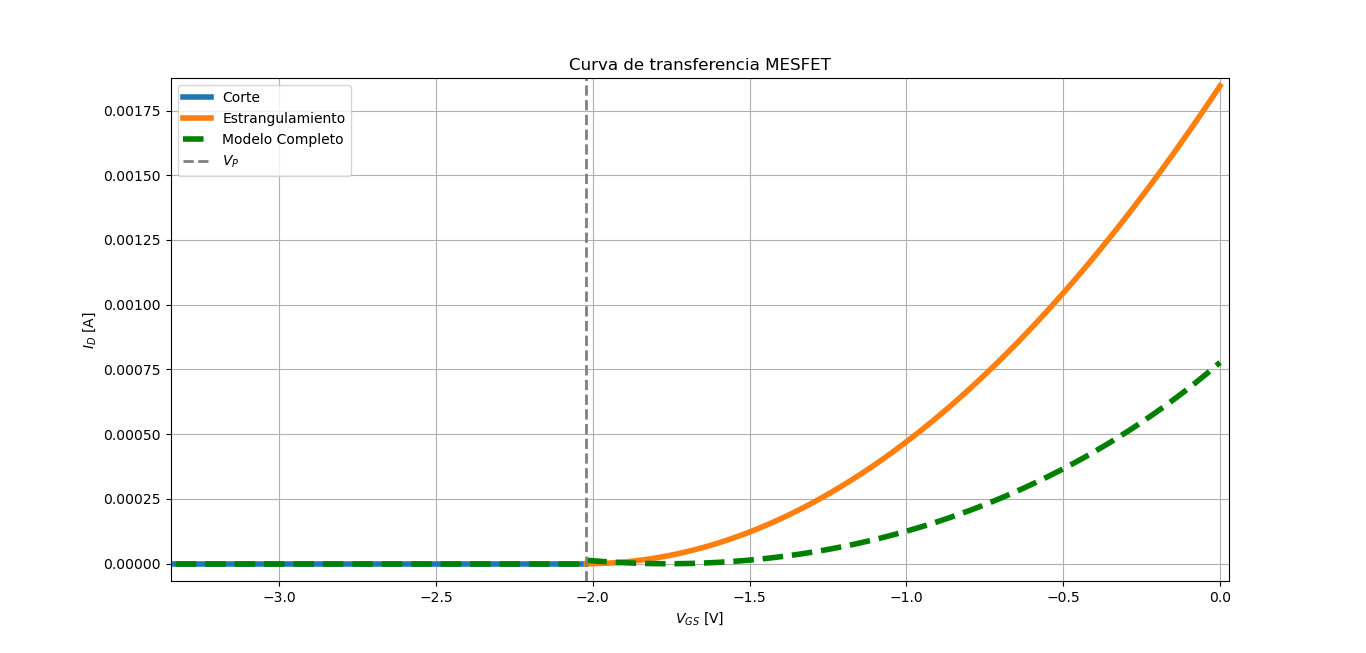
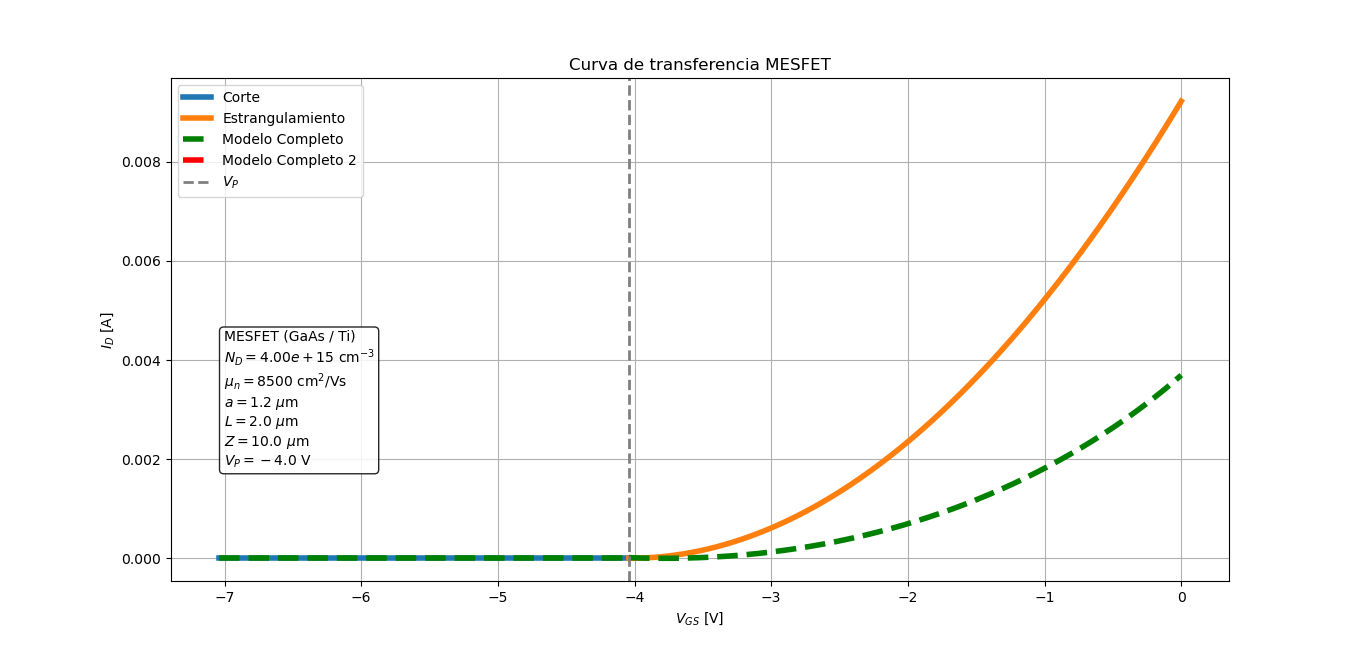
11 de FEBRERO

diff --git a/Scripts/Simulaciónes.py b/Scripts/Simulaciónes.py
@@ -13,7 +13,7 @@ eps_s = eps_r_GaAs * eps0     # F/cm
 # Parámetros del MESFET
 # -----------------------------
 mu_n = 8500               # 8500 cm^2/Vs
-Nd = 2e15                     # cm^-3
+Nd = 4e15                     # cm^-3
 
 
 #Geometricos
@@ -34,7 +34,7 @@ V_GS = 0
 V_DS_SAT  =  (-V_P + V_GS - V_bi )
 
 
-IDSS = (Z/L) * (a - W_d0) * q * mu_n * Nd * V_DS_SAT
+IDSS = (Z/L) * (a - W_d0 ) * q * mu_n * Nd * V_DS_SAT
 
 
 
@@ -73,7 +73,7 @@ go = (q*mu_n*Nd*Z*a)/(L)
 
 print("go = "+ str(go) + "1/ohm")
 
-VGS = np.linspace(V_P, 0, 500)
+VGS = np.linspace(V_P, 0, 1000)
 
 VDS_sat = (-V_P + VGS - V_bi )
 
@@ -84,18 +84,52 @@ termino = ((2)/(3*np.sqrt(np.abs(V_P))))*( (arg1)**(3/2) - (arg2)**(3/2) )
 
 ID_completo = go * ( VDS_sat -termino ) 
 
+
+#Modelo 2
+
+
+ID_norm = (Z * mu_n * (q**2) * (Nd**2) * (a**3)) / (6 * eps_s * L)
+termino_2 = ((VDS_sat + VGS + V_bi)**(3/2) - (VGS - V_bi)**(3/2))
+
+ID_model_2 = ID_norm*(3*VDS_sat/V_P - (2/(V_P**(3/2)))*termino_2 )
+
 plt.figure()
 plt.plot(VGS_corte, ID_corte, linewidth=4, label="Corte")
 plt.plot(VGS_estr, ID_estr, linewidth=4, label="Estrangulamiento")
 plt.plot(VGS, ID_completo, linewidth=4, label="Modelo Completo",color = "green" , linestyle = "--")
+plt.plot(VGS, ID_model_2, linewidth=4, label="Modelo Completo 2",color = "red" , linestyle = "--")
 plt.plot(VGS_corte, ID_corte, linewidth=4,color = "green" , linestyle = "--")
 plt.axvline(V_P, color='gray', linestyle='--', linewidth=2, label=r"$V_P$")
 plt.xlabel(r"$V_{GS}$ [V]")
 plt.ylabel(r"$I_D$ [A]")
 plt.title("Curva de transferencia MESFET")
 plt.grid(True)
+
+# ---- Cartel de parámetros ----
+label_text = (
+    r"MESFET (GaAs / Ti)" "\n"
+    rf"$N_D = {Nd:.2e}\ \mathrm{{cm^{{-3}}}}$" "\n"
+    rf"$\mu_n = {mu_n:.0f}\ \mathrm{{cm^2/Vs}}$" "\n"
+    rf"$a = {a*1e4:.1f}\ \mu\mathrm{{m}}$" "\n"
+    rf"$L = {L*1e4:.1f}\ \mu\mathrm{{m}}$" "\n"
+    rf"$Z = {Z*1e4:.1f}\ \mu\mathrm{{m}}$" "\n"
+    rf"$V_P = {V_P:.1f}\ \mathrm{{V}}$"
+)
+
+plt.text(
+    0.05, 0.5, label_text,
+    transform=plt.gca().transAxes,
+    fontsize=10,
+    verticalalignment='top',
+    bbox=dict(boxstyle="round", facecolor="white", alpha=0.85)
+)
 plt.legend()
 plt.show()
+
+
+
+
+
 
 
 VGS_vals = [-2.0, V_P, -1.5, -1.0, -0.5, 0.0]
